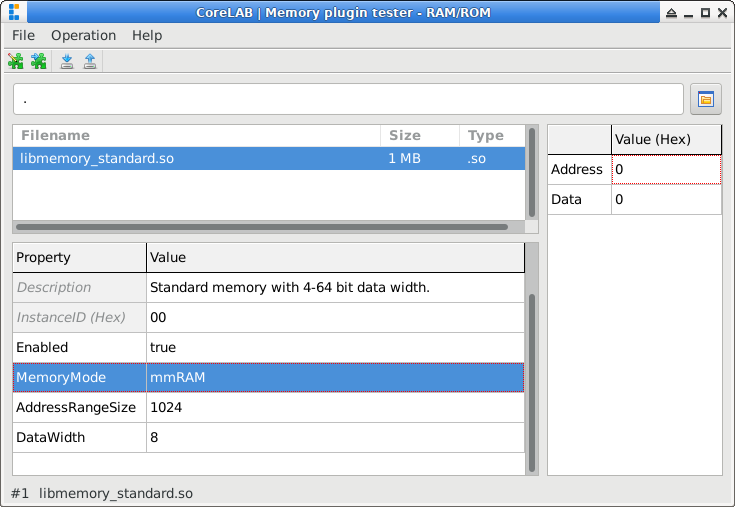
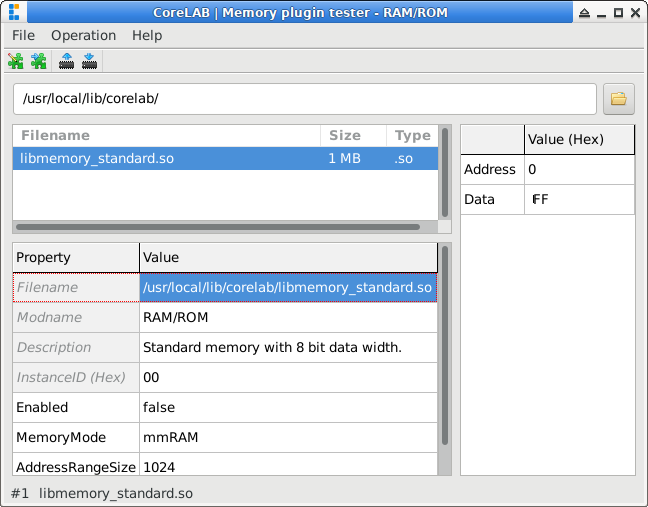
260830

diff --git a/README.md b/README.md
@@ -111,6 +111,16 @@ in mind:
 
 ![CLMemory plugin tester application](document/screenshots/clmemory.png)
 
+![CLMemory plugin tester application](document/screenshots/clprocessor_1.png)
+
+![CLMemory plugin tester application](document/screenshots/clprocessor_2.png)
+
+![CLMemory plugin tester application](document/screenshots/clprocessor_3.png)
+
+![CLMemory plugin tester application](document/screenshots/clprocessor_4.png)
+
+![CLMemory plugin tester application](document/screenshots/clprocessor_5.png)
+
 (...)
 
 ## IV. Used external libraries, programs and others
@@ -194,8 +204,9 @@ to be used with other development tools or transferred to real hardware.
 |*.clsht  |CoreLAB snapshot          |CoreLAB                        |
 |*.clsce  |CoreLAB scriptembly       |CoreLAB                        |
 |*.clpst  |CoreLAB plugin status file|CLIOPort, CLMemory, CLProcessor|
-|*.bin    |General binary file       |CoreLAB, CLProcessor           |			*.bin
-|*.log    |General log file          |CoreLAB, CLProcessor           |			*.bin
+|*.bin    |General binary file       |CoreLAB, CLProcessor           |
+|*.hex    |Intel hexa file           |CoreLAB, CLProcessor           |
+|*.log    |General log file          |CoreLAB, CLProcessor           |
 
 ## VII. Implemented commands  
 
@@ -218,7 +229,7 @@ to be used with other development tools or transferred to real hardware.
 |`DEPO`|Deposit (write) a value directly into memory, register or bus address.            |
 |`DEST`|Delete an object and free its memory.                                             |
 |`DETH`|Disconnect a module from the bus.                                                 |
-|`END` |End of script.                                                                     |
+|`END` |End of script.                                                                    |
 |`EXAM`|Examine (read) a value from memory, register or bus address into a variable.      |
 |`EXIT`|Terminate the script.                                                             |
 |`FILL`|Fill an array with a specific byte value.                                         |
